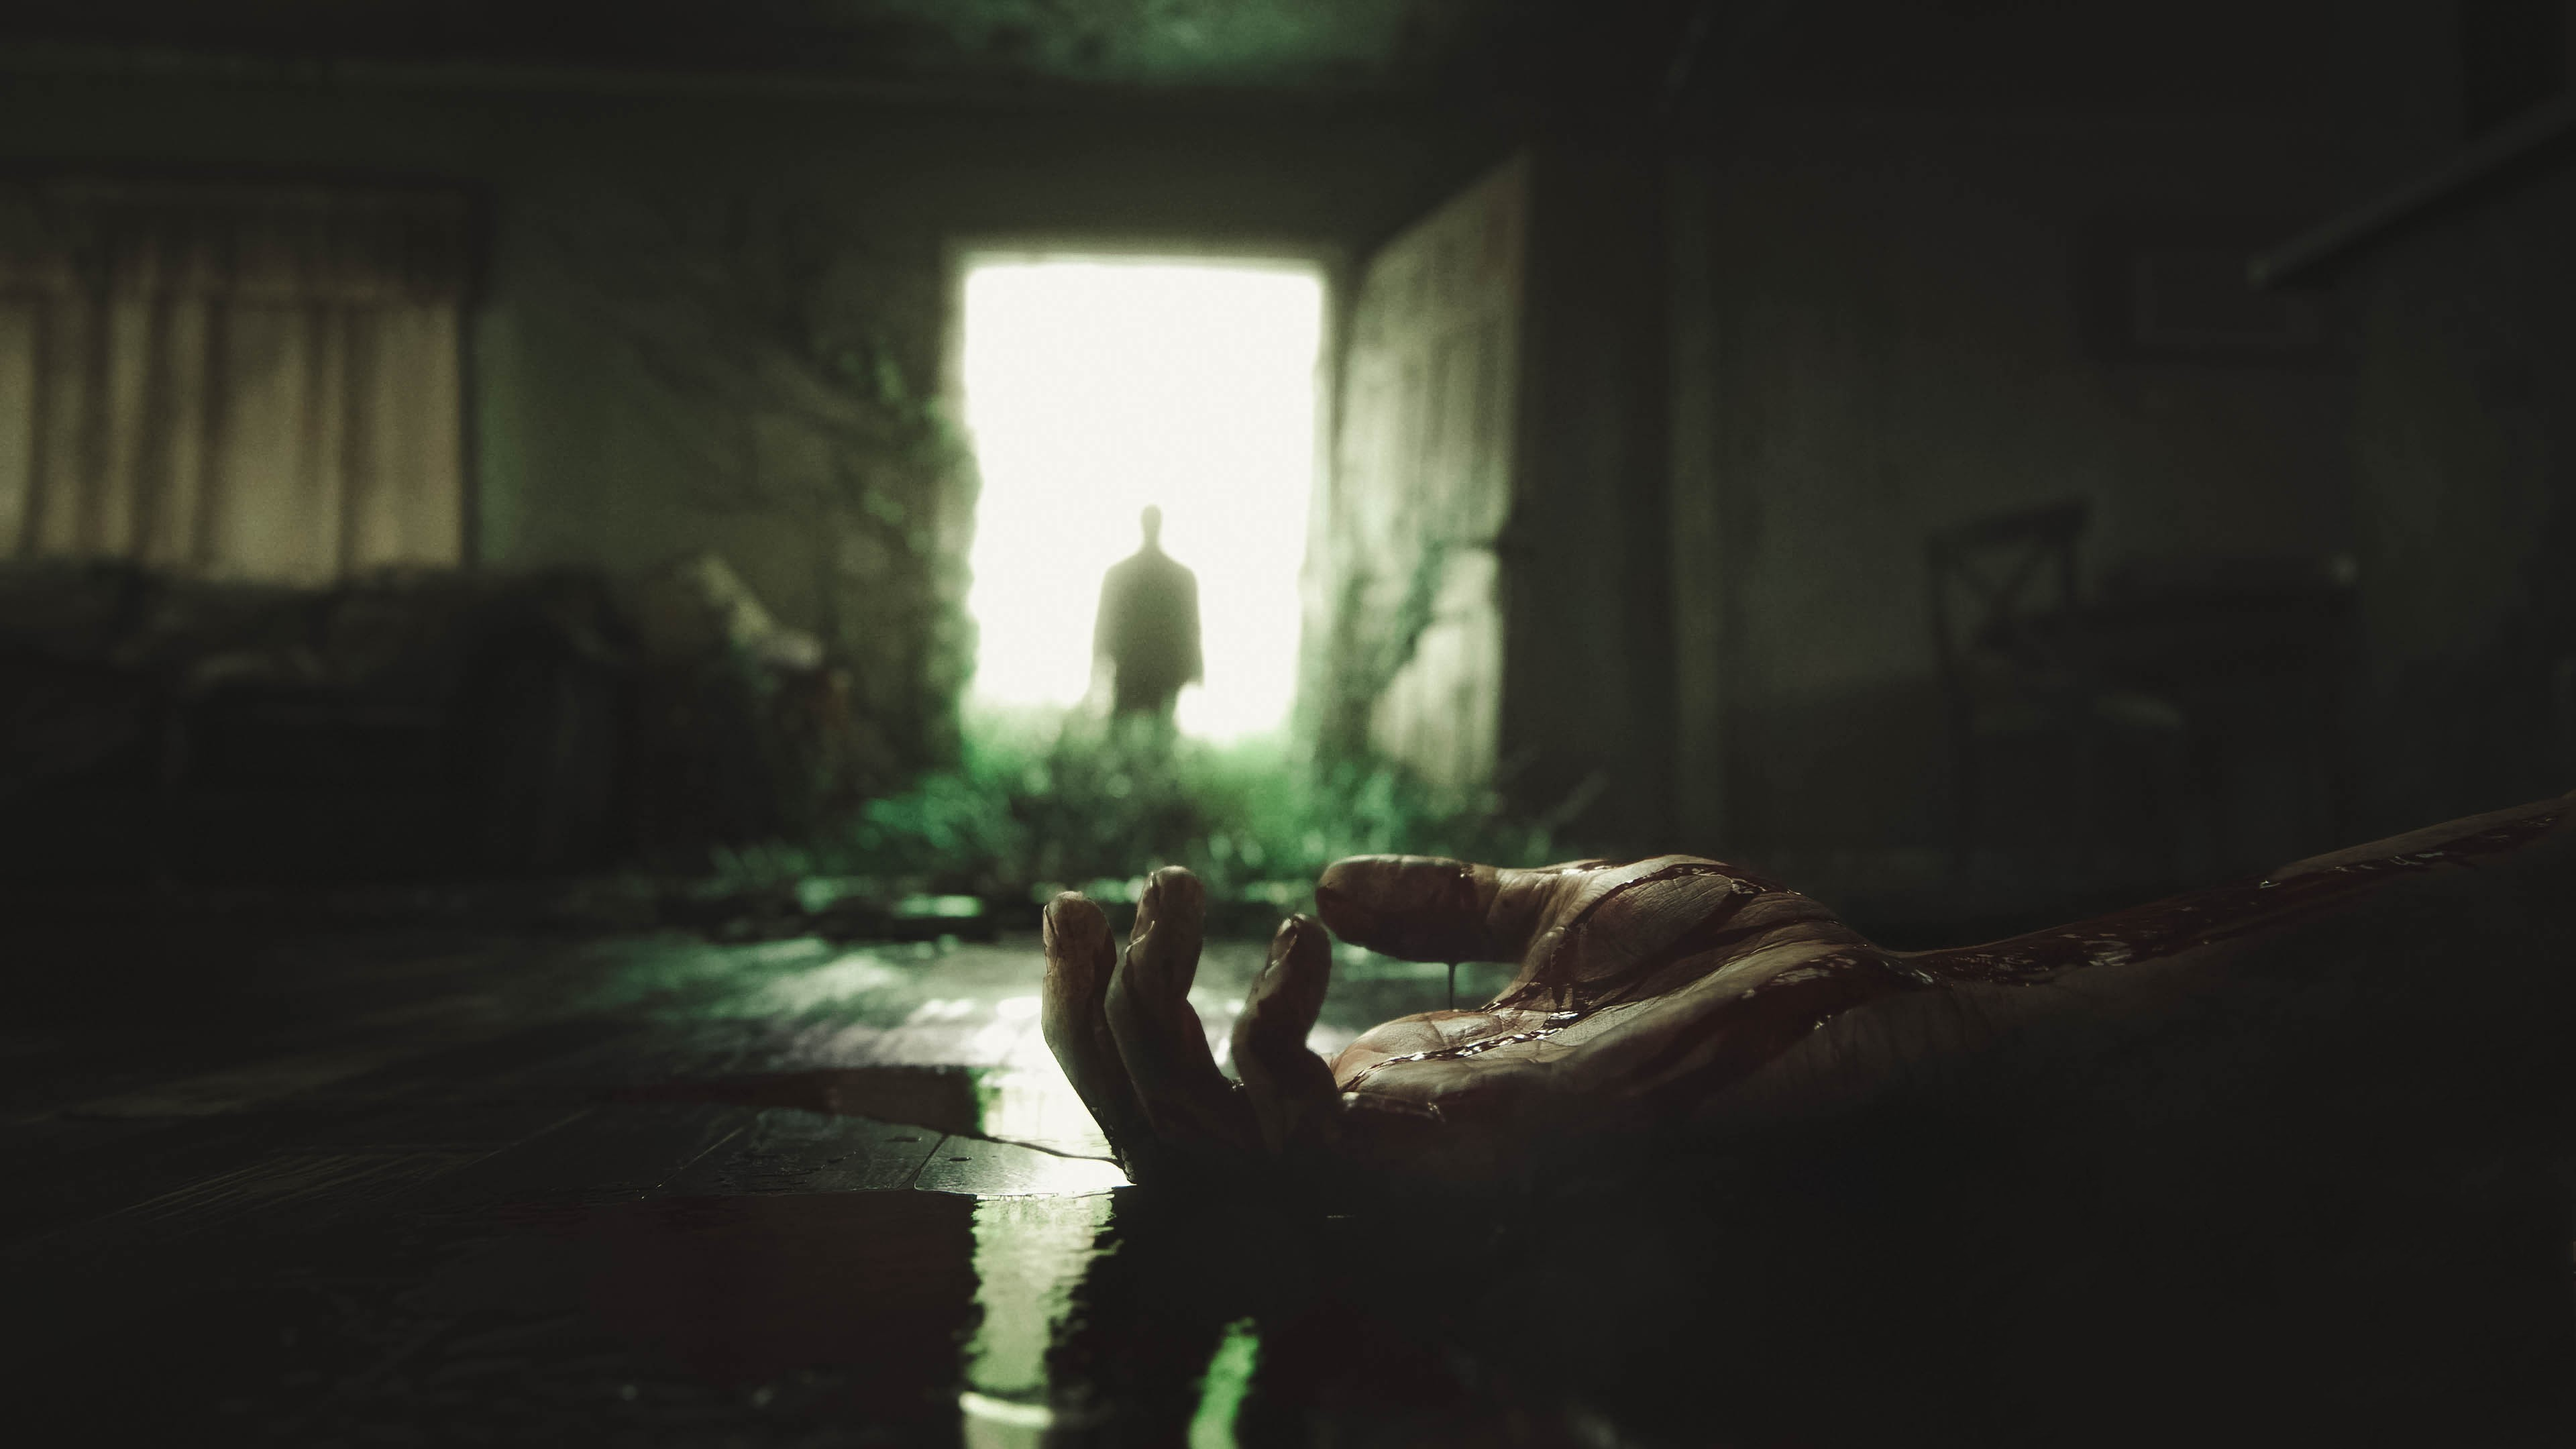
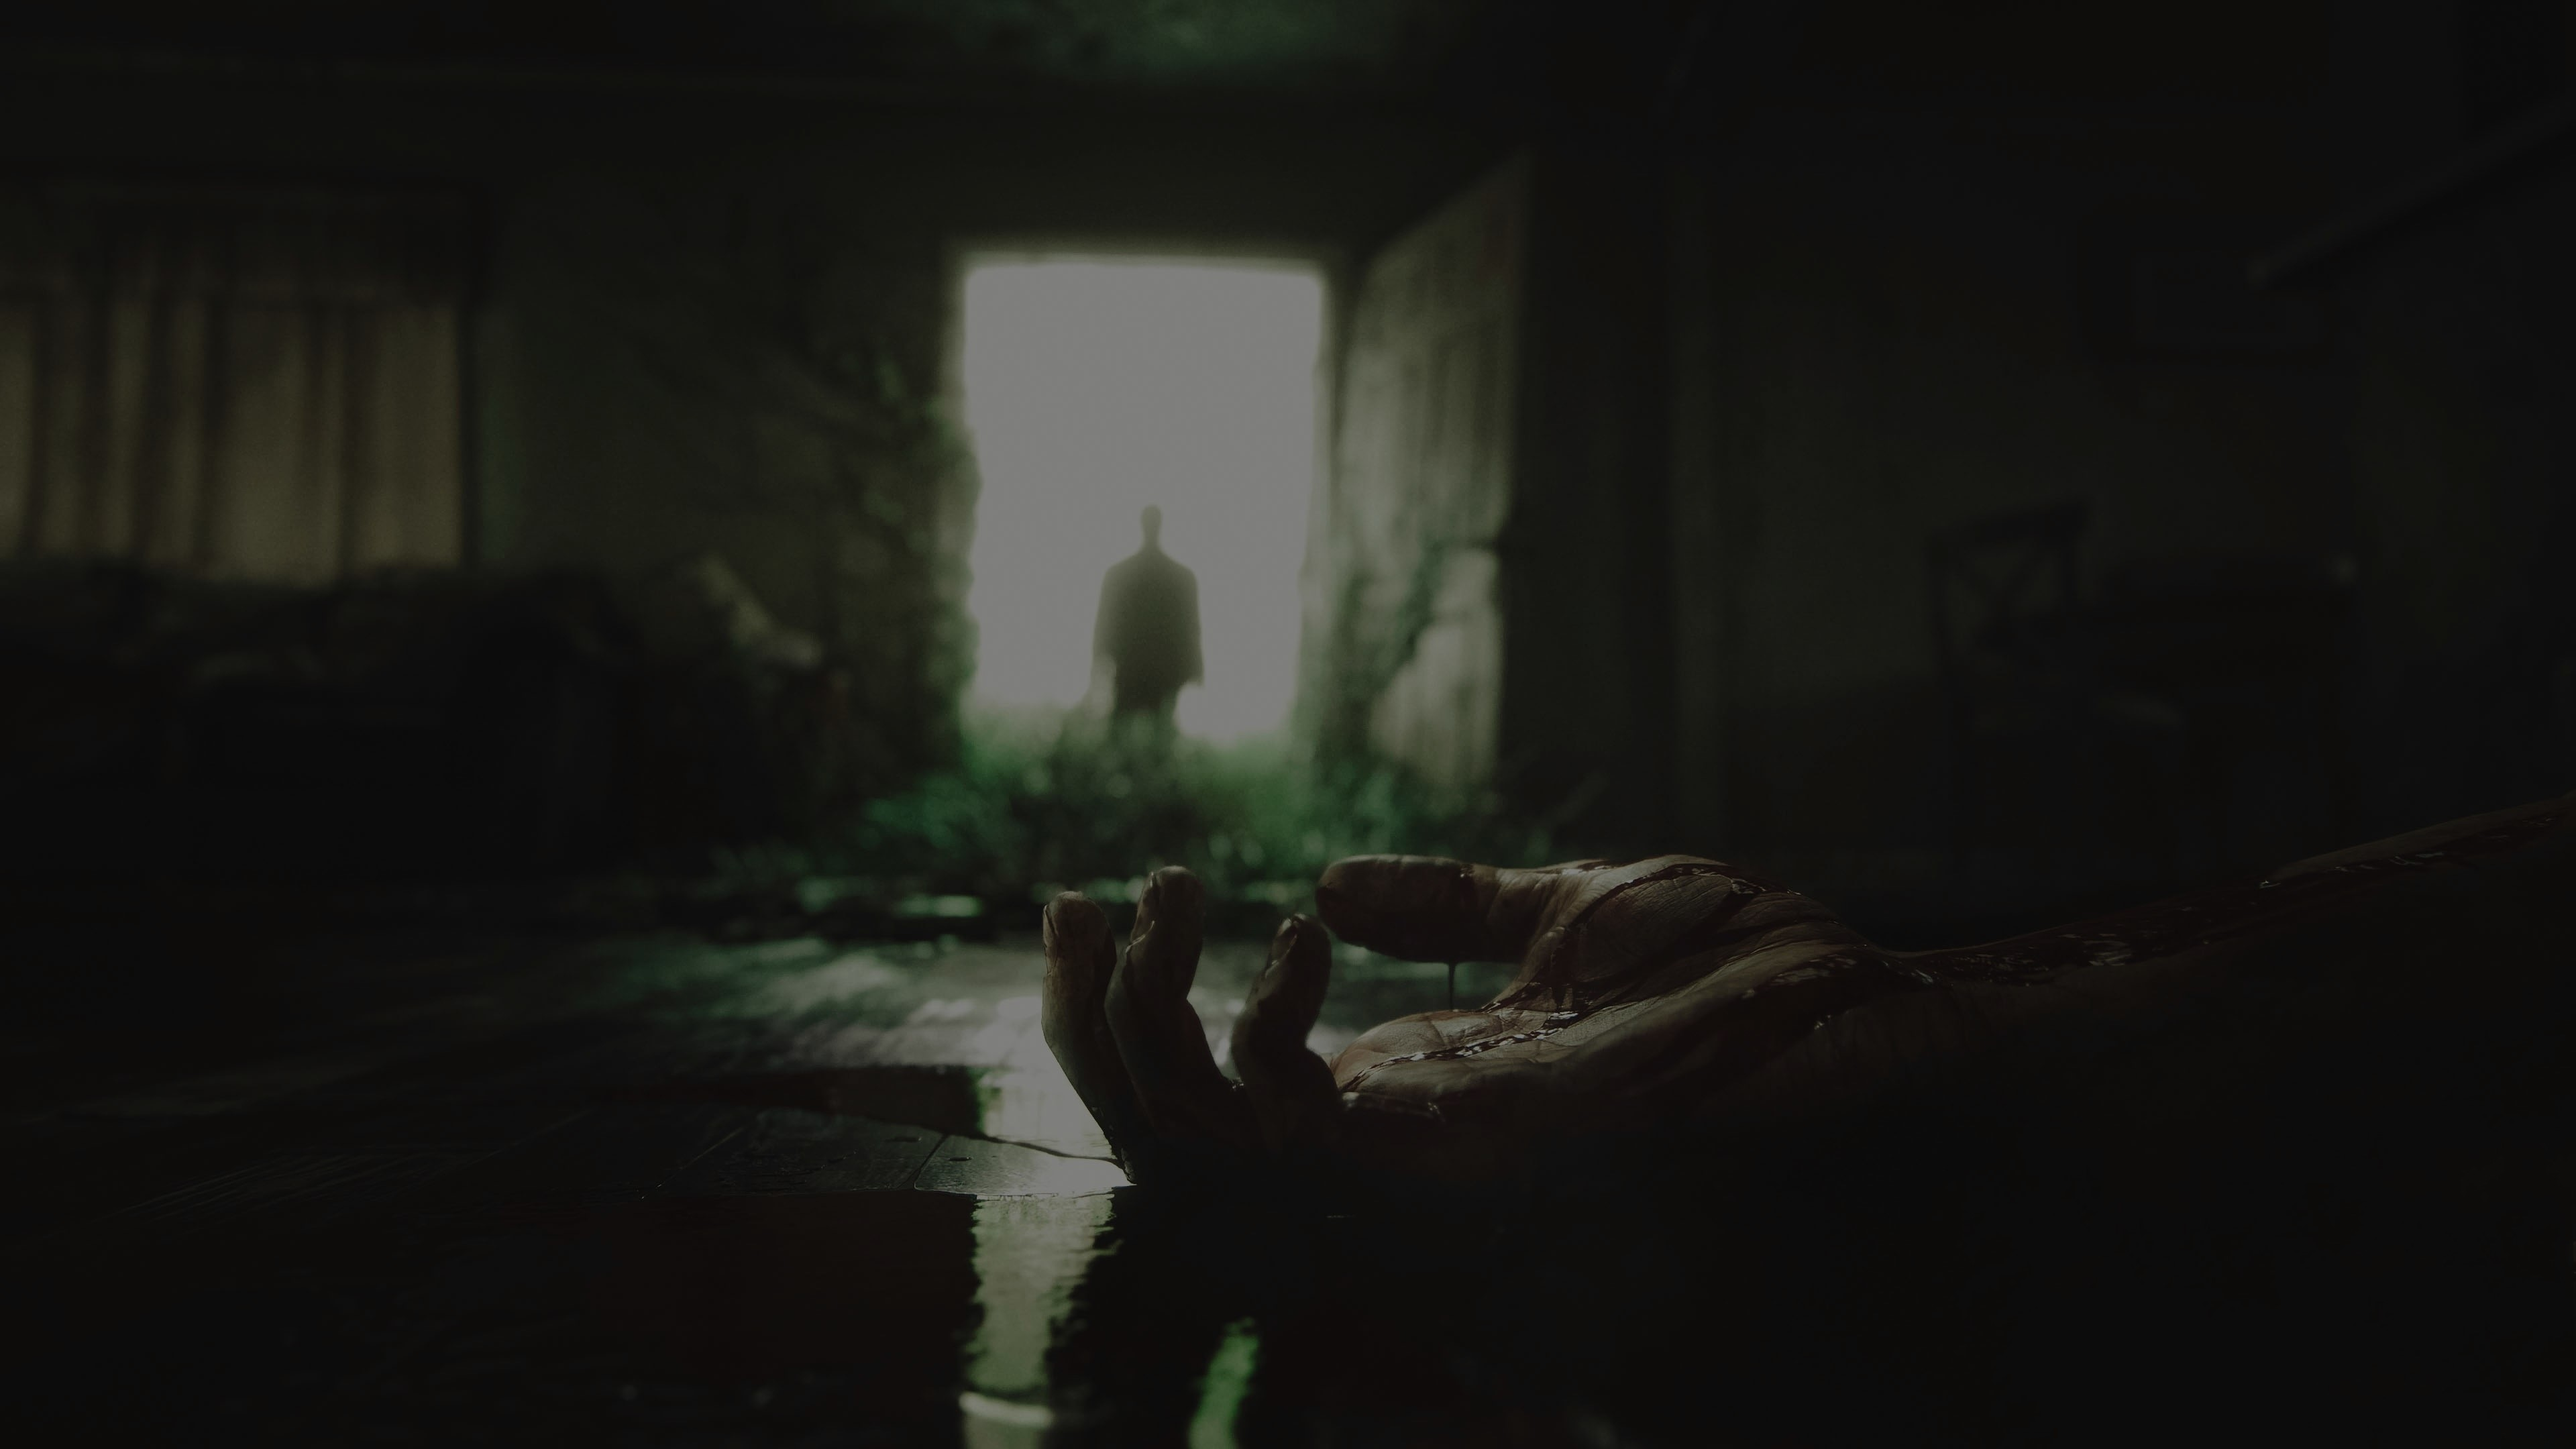
Estilização do Site

Changed region(s): [[0.0, 0.1241, 0.7188, 1.0], [0.625, 0.3102, 0.7188, 0.4963], [0.3438, 0.0, 0.5625, 0.062]]

diff --git a/Algoritmo/Public/HTML/index.html b/Algoritmo/Public/HTML/index.html
@@ -15,9 +15,7 @@
 
 <body>
     <img class="Background-image" src="../Assets/Imgs/Background-image.jpeg">
-
-
-    <div class="header">
+    <div id="home" class="header">
         <div class="container">
             <div class="logo">
                 <img src="../Assets/Imgs/Logo.png">
@@ -27,12 +25,12 @@
             </div>
 
             <ul class="sections">
-                <li> <a href="#">HOME</a></li>
-                <li><a href="#">SERIE</a></li>
-                <li><a href="#">JOGO</a></li>
-                <li><a href="#">PERSONAGENS</a></li>
-                <li><a href="#">QUIZ</a></li>
-                <li><a href="#">SOBRE</a></li>
+                <li> <a href="#home">HOME</a></li>
+                <li><a href="#serie">SERIE</a></li>
+                <li><a href="#jogo">JOGO</a></li>
+                <li><a href="#personagens">PERSONAGENS</a></li>
+                <li><a href="#quiz">QUIZ</a></li>
+                <li><a href="#sobre">SOBRE</a></li>
             </ul>
 
             <ul class="buttons">
@@ -54,6 +52,7 @@
 
 
     <div class="AudioMusic">
+        <span>"CLique aqui para escutar a música tema do Jogo"</span>
         <i id="iconMusic" class="fi fi-sr-music-note"></i>
         <audio id="audioPlayer" preload="auto">
             <source src="../Assets/Audios/Tlou.mp3" type="audio/mpeg">
@@ -62,7 +61,7 @@
     </div>
 
 
-    <div class="serie">
+    <div id="serie" class="serie">
         <div class="container">
             <div class="serie-banner">
                 <p id="title">
@@ -87,7 +86,7 @@
     </div>
 
 
-    <div class="game">
+    <div id="jogo" class="game">
         <div class="container">
             <div class="game-banner">
                 <p id="game">
@@ -113,7 +112,7 @@
     </div>
 
 
-    <div class="personagens">
+    <div id="personagens" class="personagens">
         <div class="container">
             <div class="card-ellie">
                 <div class="card">
@@ -217,7 +216,7 @@
     </div>
 
 
-    <div class="quiz">
+    <div id="quiz" class="quiz">
         <div class="container">
             <div class="quiz-banner">
                 <span>QUIZ</span>
@@ -235,7 +234,7 @@
     </div>
 
 
-    <div class="sobre">
+    <div id="sobre" class="sobre">
         <div class="container">
             <div class="autor">
                 <img src="../Assets/Imgs/enzomartins.jpg" alt="Enzo Martins">
@@ -269,6 +268,20 @@
 </body>
 
 </html>
+
+<script type="text/javascript">
+    var lastScrollTop = 0;
+    home = document.getElementById("home")
+    window.addEventListener("scroll", function () {
+        var scrollTop = window.pageYOffset || document.documentElement.scrollTop;
+        if (scrollTop > lastScrollTop) {
+            home.style.top = "50px";
+        } else {
+            home.style.top = "0px";
+        }
+        lastScrollTop = scrollTop;
+    })
+</script>
 
 <script>
     const PlayPauseMusic = document.getElementById('iconMusic');

diff --git a/Algoritmo/Public/CSS/style.css b/Algoritmo/Public/CSS/style.css
@@ -14,15 +14,14 @@
 
 @import url('../https://fonts.googleapis.com/css2?family=Poppins&display=swap');
 
-/* html {
+html {
     scroll-behavior: smooth;
     scroll-padding-top: 9.5vh;
-} */
+}
 
 html::-webkit-scrollbar {
     width: 3px;
     height: 3px;
-    /* A altura só é vista quando a rolagem é horizontal */
 }
 
 html::-webkit-scrollbar-track {
@@ -46,7 +45,7 @@ body {
     height: 100vh;
     position: absolute;
     z-index: -1;
-    opacity: 0.9;
+    opacity: 0.5;
 }
 
 .header {
@@ -145,7 +144,6 @@ li:hover {
     align-items: end;
     margin-top: 50px;
     color: #fff;
-    opacity: 0.5;
     font-size: 150px;
     font-family: 'TLOU';
 }
@@ -172,13 +170,25 @@ li:hover {
     position: absolute;
     right: 200px;
     bottom: 230px;
-    justify-content: end;
-    align-items: center;
+    justify-content: space-around;
+    align-items: space-around;
+}
+.AudioMusic i {
+    display: flex;
+    align-self: space-around;
+}
+.AudioMusic span {
+    display: flex;
+    font-size: 16px;
+    font-family: "Modern Sans";
+    font-style: italic;
+    color: #fff;
 }
 
 .serie {
     width: 100%;
     height: 900px;
+    background-image: linear-gradient(to bottom, #383232,#000);
 }
 
 .serie .container {
@@ -658,7 +668,7 @@ button a {
     justify-content: center;
     align-items: center;
     background: #000;
-    background: url(../Assets/Imgs/tlou1bck.jpg) no-repeat;
+    background: url(../Assets/Imgs/tlou1bckopacity.jpg) no-repeat;
     width: 100%;
     min-height: 100vh;
     display: flex;
@@ -666,6 +676,7 @@ button a {
     background-size: cover;
 
 }
+
 
 .quiz .container {
     width: 80%;

diff --git a/Algoritmo/Public/CSS/cadastro.css b/Algoritmo/Public/CSS/cadastro.css
@@ -15,7 +15,7 @@ body {
 
 section {
     display: flex;
-    justify-content: end;
+    justify-content: center;
     align-items: center;
     min-height: 100vh;
     width: 100%;
